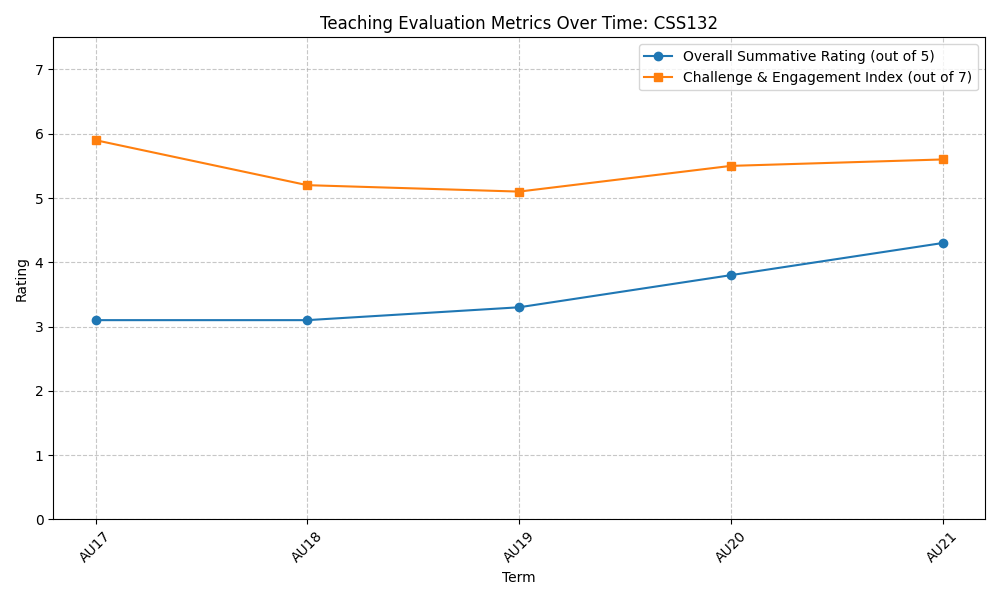
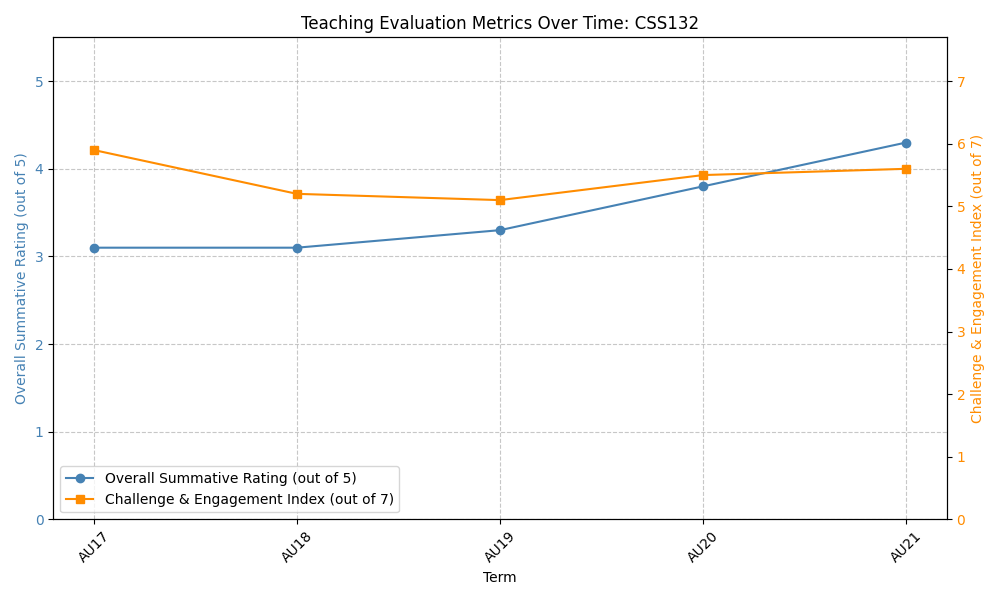
update dashboard, include in teaching page

diff --git a/graphs/index.html b/graphs/index.html
@@ -2,23 +2,69 @@
 <html>
 <head>
 <title>Teaching Evaluation Dashboard</title>
-<style>body { font-family: sans-serif; margin: 40px; } a { color: #0066cc; text-decoration: none; } a:hover { text-decoration: underline; } img { max-width: 100%; height: auto; margin-bottom: 20px; } .graph-container { margin-bottom: 40px; border: 1px solid #ccc; padding: 20px; border-radius: 8px; }</style>
+<style>
+body { font-family: sans-serif; margin: 40px; max-width: 1200px; margin: 40px auto; }
+h1 { border-bottom: 2px solid #333; padding-bottom: 10px; }
+h2 { margin-top: 40px; }
+a { color: #0066cc; text-decoration: none; }
+a:hover { text-decoration: underline; }
+ol.course-index { padding-left: 30px; line-height: 2; }
+.thumbnail-grid { display: flex; flex-wrap: wrap; gap: 12px; margin-top: 20px; }
+.thumbnail { width: calc(20% - 12px); min-width: 160px; text-align: center; }
+.thumbnail img { width: 100%; height: auto; border: 1px solid #ccc; border-radius: 4px; }
+.thumbnail p { margin: 4px 0 0; font-size: 0.85em; font-weight: bold; }
+.graph-container { margin-bottom: 60px; border: 1px solid #ccc; padding: 20px; border-radius: 8px; scroll-margin-top: 20px; }
+.graph-container img { max-width: 100%; height: auto; }
+    </style>
 </head>
 <body>
 <h1>Teaching Evaluation Dashboard</h1>
+<h2>Courses Taught (67)</h2>
+<ol class='course-index'>
+<li><a href='#BCORE104'>BCORE 104</a> (2024AU)</li>
+<li><a href='#BIMD363'>BIMD 363</a> (2019SP)</li>
+<li><a href='#CSS132'>CSS 132</a> (2017AU, 2018AU, 2019AU, 2020AU, 2021AU)</li>
+<li><a href='#CSS133'>CSS 133</a> (2018WI, 2019WI, 2020WI, 2021WI, 2022WI)</li>
+<li><a href='#CSS142'>CSS 142</a> (2017AU, 2021AU)</li>
+<li><a href='#CSS143'>CSS 143</a> (2024AU, 2025WI)</li>
+<li><a href='#CSS342'>CSS 342</a> (2018SP, 2019AU, 2020AU, 2021AU, 2022AU, 2023WI, 2023SP, 2023AU)</li>
+<li><a href='#CSS343'>CSS 343</a> (2018WIx2, 2018AU, 2019WI, 2019AU, 2020WI, 2021WI, 2022WI, 2023SP, 2023AU, 2024WI, 2025WI, 2025SP, 2025AUx2, 2026WI)</li>
+<li><a href='#CSS382'>CSS 382</a> (2021WI, 2021SP, 2022WI, 2023SP)</li>
+<li><a href='#CSS385'>CSS 385</a> (2018SP, 2019SP, 2020SP, 2021SP, 2022AU, 2023SP, 2024SP, 2025SP)</li>
+<li><a href='#CSS390'>CSS 390</a> (2018AU, 2020WI, 2020SU)</li>
+<li><a href='#CSS422'>CSS 422</a> (2023AU, 2024SP, 2024AU)</li>
+<li><a href='#CSS430'>CSS 430</a> (2019SP, 2020SP, 2021SP, 2023WI, 2024WI, 2025WI, 2025AU, 2026WIx2)</li>
+</ol>
+<h2>Overview</h2>
+<div class='thumbnail-grid'>
+<div class='thumbnail'><a href='#BCORE104'><img src='BCORE104_evaluations.png' alt='BCORE 104'></a><p>BCORE 104</p></div>
+<div class='thumbnail'><a href='#BIMD363'><img src='BIMD363_evaluations.png' alt='BIMD 363'></a><p>BIMD 363</p></div>
+<div class='thumbnail'><a href='#CSS132'><img src='CSS132_evaluations.png' alt='CSS 132'></a><p>CSS 132</p></div>
+<div class='thumbnail'><a href='#CSS133'><img src='CSS133_evaluations.png' alt='CSS 133'></a><p>CSS 133</p></div>
+<div class='thumbnail'><a href='#CSS142'><img src='CSS142_evaluations.png' alt='CSS 142'></a><p>CSS 142</p></div>
+<div class='thumbnail'><a href='#CSS143'><img src='CSS143_evaluations.png' alt='CSS 143'></a><p>CSS 143</p></div>
+<div class='thumbnail'><a href='#CSS342'><img src='CSS342_evaluations.png' alt='CSS 342'></a><p>CSS 342</p></div>
+<div class='thumbnail'><a href='#CSS343'><img src='CSS343_evaluations.png' alt='CSS 343'></a><p>CSS 343</p></div>
+<div class='thumbnail'><a href='#CSS382'><img src='CSS382_evaluations.png' alt='CSS 382'></a><p>CSS 382</p></div>
+<div class='thumbnail'><a href='#CSS385'><img src='CSS385_evaluations.png' alt='CSS 385'></a><p>CSS 385</p></div>
+<div class='thumbnail'><a href='#CSS390'><img src='CSS390_evaluations.png' alt='CSS 390'></a><p>CSS 390</p></div>
+<div class='thumbnail'><a href='#CSS422'><img src='CSS422_evaluations.png' alt='CSS 422'></a><p>CSS 422</p></div>
+<div class='thumbnail'><a href='#CSS430'><img src='CSS430_evaluations.png' alt='CSS 430'></a><p>CSS 430</p></div>
+</div>
+<h2>Detailed Graphs</h2>
+<div class='graph-container' id='BCORE104'><h3>BCORE 104</h3><img src='BCORE104_evaluations.png' alt='Evaluation graph for BCORE 104'></div>
+<div class='graph-container' id='BIMD363'><h3>BIMD 363</h3><img src='BIMD363_evaluations.png' alt='Evaluation graph for BIMD 363'></div>
+<div class='graph-container' id='CSS132'><h3>CSS 132</h3><img src='CSS132_evaluations.png' alt='Evaluation graph for CSS 132'></div>
+<div class='graph-container' id='CSS133'><h3>CSS 133</h3><img src='CSS133_evaluations.png' alt='Evaluation graph for CSS 133'></div>
+<div class='graph-container' id='CSS142'><h3>CSS 142</h3><img src='CSS142_evaluations.png' alt='Evaluation graph for CSS 142'></div>
+<div class='graph-container' id='CSS143'><h3>CSS 143</h3><img src='CSS143_evaluations.png' alt='Evaluation graph for CSS 143'></div>
+<div class='graph-container' id='CSS342'><h3>CSS 342</h3><img src='CSS342_evaluations.png' alt='Evaluation graph for CSS 342'></div>
+<div class='graph-container' id='CSS343'><h3>CSS 343</h3><img src='CSS343_evaluations.png' alt='Evaluation graph for CSS 343'></div>
+<div class='graph-container' id='CSS382'><h3>CSS 382</h3><img src='CSS382_evaluations.png' alt='Evaluation graph for CSS 382'></div>
+<div class='graph-container' id='CSS385'><h3>CSS 385</h3><img src='CSS385_evaluations.png' alt='Evaluation graph for CSS 385'></div>
+<div class='graph-container' id='CSS390'><h3>CSS 390</h3><img src='CSS390_evaluations.png' alt='Evaluation graph for CSS 390'></div>
+<div class='graph-container' id='CSS422'><h3>CSS 422</h3><img src='CSS422_evaluations.png' alt='Evaluation graph for CSS 422'></div>
+<div class='graph-container' id='CSS430'><h3>CSS 430</h3><img src='CSS430_evaluations.png' alt='Evaluation graph for CSS 430'></div>
 <p><a href='evaluations_summary.csv'>Download Raw Data (CSV)</a></p>
-<div class='graph-container'><h2>BCORE104</h2><img src='BCORE104_evaluations.png' alt='Evaluation graph for BCORE104'></div>
-<div class='graph-container'><h2>BIMD363</h2><img src='BIMD363_evaluations.png' alt='Evaluation graph for BIMD363'></div>
-<div class='graph-container'><h2>CSS132</h2><img src='CSS132_evaluations.png' alt='Evaluation graph for CSS132'></div>
-<div class='graph-container'><h2>CSS133</h2><img src='CSS133_evaluations.png' alt='Evaluation graph for CSS133'></div>
-<div class='graph-container'><h2>CSS142</h2><img src='CSS142_evaluations.png' alt='Evaluation graph for CSS142'></div>
-<div class='graph-container'><h2>CSS143</h2><img src='CSS143_evaluations.png' alt='Evaluation graph for CSS143'></div>
-<div class='graph-container'><h2>CSS342</h2><img src='CSS342_evaluations.png' alt='Evaluation graph for CSS342'></div>
-<div class='graph-container'><h2>CSS343</h2><img src='CSS343_evaluations.png' alt='Evaluation graph for CSS343'></div>
-<div class='graph-container'><h2>CSS382</h2><img src='CSS382_evaluations.png' alt='Evaluation graph for CSS382'></div>
-<div class='graph-container'><h2>CSS385</h2><img src='CSS385_evaluations.png' alt='Evaluation graph for CSS385'></div>
-<div class='graph-container'><h2>CSS390</h2><img src='CSS390_evaluations.png' alt='Evaluation graph for CSS390'></div>
-<div class='graph-container'><h2>CSS422</h2><img src='CSS422_evaluations.png' alt='Evaluation graph for CSS422'></div>
-<div class='graph-container'><h2>CSS430</h2><img src='CSS430_evaluations.png' alt='Evaluation graph for CSS430'></div>
 </body>
 </html>

diff --git a/code/generate_evaluation_graphs.py b/code/generate_evaluation_graphs.py
@@ -138,46 +138,145 @@ def main():
     df.to_csv(csv_output_path, index=False)
     print(f"Generated summary report: {csv_output_path}")
 
+    # Build per-course term list (with multi-section annotation) for the index
+    term_section_counts = df.groupby(["course_code", "term", "year", "quarter_order"]).size().reset_index(name="sections")
+    course_index = {}  # course_code -> list of (year, quarter_order, term_label)
+    for _, row in term_section_counts.iterrows():
+        # term is e.g. "AU25"; reconstruct as "2025AU"
+        quarter = df.loc[df['term'] == row['term'], 'quarter'].iloc[0]
+        label = f"{row['year']}{quarter}"
+        if row["sections"] > 1:
+            label += f"x{row['sections']}"
+        course_index.setdefault(row["course_code"], []).append((row["year"], row["quarter_order"], label))
+    for code in course_index:
+        course_index[code].sort(key=lambda x: (x[0], x[1]))
+
     grouped = df.groupby("course_code")
-    generated_graphs = []
+    generated_graphs = []  # list of course_code strings
 
     for course, group in grouped:
         # Aggregate/Average in case there are multiple sections taught in the same term
         agg_df = group.groupby(["year", "quarter_order", "term"], as_index=False).mean(numeric_only=True)
         agg_df = agg_df.sort_values(by=["year", "quarter_order"])
 
-        plt.figure(figsize=(10, 6))
+        # Find terms with multiple sections to scatter individual points
+        section_counts = group.groupby("term")["overall_summative_rating"].count()
+        multi_section_terms = section_counts[section_counts > 1].index
+        multi_df = group[group["term"].isin(multi_section_terms)]
 
-        plt.plot(agg_df["term"], agg_df["overall_summative_rating"], marker='o', label='Overall Summative Rating (out of 5)')
-        plt.plot(agg_df["term"], agg_df["challenge_engagement_index"], marker='s', label='Challenge & Engagement Index (out of 7)')
+        _, ax1 = plt.subplots(figsize=(10, 6))
+        ax2 = ax1.twinx()
+
+        color_osr = 'steelblue'
+        color_cei = 'darkorange'
+
+        ax1.plot(agg_df["term"], agg_df["overall_summative_rating"], marker='o', color=color_osr, label='Overall Summative Rating (out of 5)')
+        ax2.plot(agg_df["term"], agg_df["challenge_engagement_index"], marker='s', color=color_cei, label='Challenge & Engagement Index (out of 7)')
+
+        # Scatter individual section scores for terms with multiple sections
+        if not multi_df.empty:
+            ax1.scatter(multi_df["term"], multi_df["overall_summative_rating"], marker='o', color=color_osr, alpha=0.4, zorder=5, label='Individual Section (Overall)')
+            ax2.scatter(multi_df["term"], multi_df["challenge_engagement_index"], marker='s', color=color_cei, alpha=0.4, zorder=5, label='Individual Section (Challenge & Engagement)')
+
+        ax1.set_xlabel("Term")
+        ax1.set_ylabel("Overall Summative Rating (out of 5)", color=color_osr)
+        ax1.set_ylim(0, 5.5)
+        ax1.tick_params(axis='y', labelcolor=color_osr)
+
+        ax2.set_ylabel("Challenge & Engagement Index (out of 7)", color=color_cei)
+        ax2.set_ylim(0, 7.7)
+        ax2.tick_params(axis='y', labelcolor=color_cei)
 
         plt.title(f"Teaching Evaluation Metrics Over Time: {course}")
-        plt.xlabel("Term")
-        plt.ylabel("Rating")
-        plt.ylim(0, 7.5)  # Scale appropriately for both 5.0 and 7.0 scales
-        plt.legend()
-        plt.grid(True, linestyle='--', alpha=0.7)
-        plt.xticks(rotation=45)
+        ax1.set_xticks(range(len(agg_df["term"])))
+        ax1.set_xticklabels(agg_df["term"], rotation=45)
+        ax1.grid(True, linestyle='--', alpha=0.7)
+
+        lines1, labels1 = ax1.get_legend_handles_labels()
+        lines2, labels2 = ax2.get_legend_handles_labels()
+        ax1.legend(lines1 + lines2, labels1 + labels2, loc='lower left')
+
         plt.tight_layout()
 
         output_path = OUTPUT_GRAPHS_DIR / f"{course}_evaluations.png"
         plt.savefig(output_path)
         plt.close()
         print(f"Generated graph for {course}: {output_path}")
-        generated_graphs.append(output_path.name)
+        generated_graphs.append(course)
 
-    # Generate HTML Dashboard
+    # Sort courses: by alpha prefix then by numeric course number
+    def course_sort_key(code):
+        m = re.match(r'([A-Z]+)(\d+)', code)
+        return (m.group(1), int(m.group(2))) if m else (code, 0)
+
+    sorted_courses = sorted(generated_graphs, key=course_sort_key)
+
+    CSS = """
+body { font-family: sans-serif; margin: 40px; max-width: 1200px; margin: 40px auto; }
+h1 { border-bottom: 2px solid #333; padding-bottom: 10px; }
+h2 { margin-top: 40px; }
+a { color: #0066cc; text-decoration: none; }
+a:hover { text-decoration: underline; }
+ol.course-index { padding-left: 30px; line-height: 2; }
+.thumbnail-grid { display: flex; flex-wrap: wrap; gap: 12px; margin-top: 20px; }
+.thumbnail { width: calc(20% - 12px); min-width: 160px; text-align: center; }
+.thumbnail img { width: 100%; height: auto; border: 1px solid #ccc; border-radius: 4px; }
+.thumbnail p { margin: 4px 0 0; font-size: 0.85em; font-weight: bold; }
+.graph-container { margin-bottom: 60px; border: 1px solid #ccc; padding: 20px; border-radius: 8px; scroll-margin-top: 20px; }
+.graph-container img { max-width: 100%; height: auto; }
+    """
+
     html_content = [
-        "<!DOCTYPE html>", "<html>", "<head>", "<title>Teaching Evaluation Dashboard</title>",
-        "<style>body { font-family: sans-serif; margin: 40px; } a { color: #0066cc; text-decoration: none; } a:hover { text-decoration: underline; } img { max-width: 100%; height: auto; margin-bottom: 20px; } .graph-container { margin-bottom: 40px; border: 1px solid #ccc; padding: 20px; border-radius: 8px; }</style>",
-        "</head>", "<body>", "<h1>Teaching Evaluation Dashboard</h1>",
-        "<p><a href='evaluations_summary.csv'>Download Raw Data (CSV)</a></p>"
+        "<!DOCTYPE html>", "<html>", "<head>",
+        "<title>Teaching Evaluation Dashboard</title>",
+        f"<style>{CSS}</style>",
+        "</head>", "<body>",
+        "<h1>Teaching Evaluation Dashboard</h1>",
+        f"<h2>Courses Taught ({len(df)})</h2>",
+        "<ol class='course-index'>",
     ]
-    for graph in sorted(generated_graphs):
-        course_name = graph.replace('_evaluations.png', '')
-        html_content.append(f"<div class='graph-container'><h2>{course_name}</h2><img src='{graph}' alt='Evaluation graph for {course_name}'></div>")
-    html_content.append("</body>")
-    html_content.append("</html>")
+
+    for course in sorted_courses:
+        m = re.match(r'([A-Z]+)(\d+)', course)
+        display_code = f"{m.group(1)} {m.group(2)}" if m else course
+        terms = ", ".join(lbl for _, _, lbl in course_index.get(course, []))
+        html_content.append(
+            f"<li><a href='#{course}'>{display_code}</a> ({terms})</li>"
+        )
+
+    html_content += [
+        "</ol>",
+        "<h2>Overview</h2>",
+        "<div class='thumbnail-grid'>",
+    ]
+
+    for course in sorted_courses:
+        graph_file = f"{course}_evaluations.png"
+        m = re.match(r'([A-Z]+)(\d+)', course)
+        display_code = f"{m.group(1)} {m.group(2)}" if m else course
+        html_content.append(
+            f"<div class='thumbnail'><a href='#{course}'>"
+            f"<img src='{graph_file}' alt='{display_code}'></a>"
+            f"<p>{display_code}</p></div>"
+        )
+
+    html_content += ["</div>", "<h2>Detailed Graphs</h2>"]
+
+    for course in sorted_courses:
+        graph_file = f"{course}_evaluations.png"
+        m = re.match(r'([A-Z]+)(\d+)', course)
+        display_code = f"{m.group(1)} {m.group(2)}" if m else course
+        html_content.append(
+            f"<div class='graph-container' id='{course}'>"
+            f"<h3>{display_code}</h3>"
+            f"<img src='{graph_file}' alt='Evaluation graph for {display_code}'>"
+            f"</div>"
+        )
+
+    html_content += [
+        "<p><a href='evaluations_summary.csv'>Download Raw Data (CSV)</a></p>",
+        "</body>", "</html>"
+    ]
 
     html_output_path = OUTPUT_GRAPHS_DIR / "index.html"
     with open(html_output_path, "w") as f:

diff --git a/AI-log.md b/AI-log.md
@@ -1,0 +1,46 @@
+# AI Log
+# IMPORTANT: Record all user instructions verbatim, EXACTLY as typed, before doing any other work.
+
+## 2026-04-28T06:57
+Download Raw Data (CSV) should be at the very end of the file
+
+Make the index a numbered list, not bulleted
+
+## 2026-04-28T06:56
+Ah, my mistake the number in parenthesis should be the number of sections
+
+## 2026-04-28T06:55
+Add the number of courses in parenthesis in the "Courses Taught" header
+
+## 2026-04-28T06:46
+Create an index at the top of the page, similar to one below where each course is listed based on the curriculum code and sorted by number with the different sections in parenthesis
+
+Courses Taught at University of Washington Bothell 
+ 
+●  BCORE 104 Games for Good (2024AU) 
+●  CSS 132 Computer Programming for Engineers I (2017AU, 2018AU, 2019AU, 2020AU, 2021AU) 
+●  CSS 133 Computer Programming for Engineers II (2018WI, 2019WI, 2020WI, 2021WI, 2022WI) 
+●  CSS 142 Computer Programming I (2017AU, 2021AU) 
+●  CSS 143 Computer Programming II (2024AU, 2025WI) 
+●  CSS  342  Data  Structures, Algorithms, and Discrete Mathematics I (2018SP, 2019AU, 2020AU, 2021AU, 
+2022AU, 2023WI, 2023SP, 2023AU) 
+●  CSS  343 Data Structures, Algorithms, and Discrete Mathematics II (2018WI, 2018AU, 2019SP, 2019AU, 
+2020WI, 2021WI, 2022WI, 2023SP, 2023AU, 2024WI, 2025WI, 2025SP, 2025AUx2) 
+●  CSS 382 Introduction to Artificial Intelligence (2020WI, 2020SU, 2021WI, 2021SP, 2022WI, 2023SP) 
+●  CSS 385 Introduction to Game Development (2018SP, 2019SP, 2020SP, 2021SP, 2022AU, 2023SP, 2024SP, 
+2025SP) 
+●  CSS 390 Special Topics: Game Development (2018AU) 
+●  CSS 422 Hardware and Computer Organization (2023AU, 2024SP, 2024AU) 
+●  CSS 430 Operating Systems (2019SP, 2020SP, 2021SP, 2023WI, 2024WI, 2025WI, 2025AU) 
+●  CSS 599 Faculty Research Seminar (2024WI) 
+
+Put the graphs below the index. Make the graphs much smaller, maybe 4 or 5 in a row, but make them clickable so when you click on it you get to the bigger version of the graph. The bigger version of the graphs can all be on the same page, similar to what we have now, but need HTML anchors so the link jumps to the correct location
+
+## 2026-04-28T06:38
+Overall Summative Rating is out of 5, but the Challenge and Engagement Index is out of 7. Instead of using the same y-axis for both use the left y-axis for OSR and the right y-axis for CEI
+
+## 2026-04-28T06:36
+Modify it so there are 2 data points for multiple sections, but use the average when drawing the graph
+
+## 2026-04-28T06:35
+How does this file deal with the case when there are 2 sections of the same course? Does the numerical scores just get averaged?

diff --git a/teaching/evaluations/index.md b/teaching/evaluations/index.md
@@ -16,6 +16,8 @@ Course Syllabi from past years can be found at the public site for the [CSS Unde
 
 ### Teaching Evaluations
 
+[Teaching Evaluation Dashboard](../../graphs/) with pretty graphs!
+
 - 2026 Spring
   - CSS 382: Introduction to Artificial Intelligence
 
